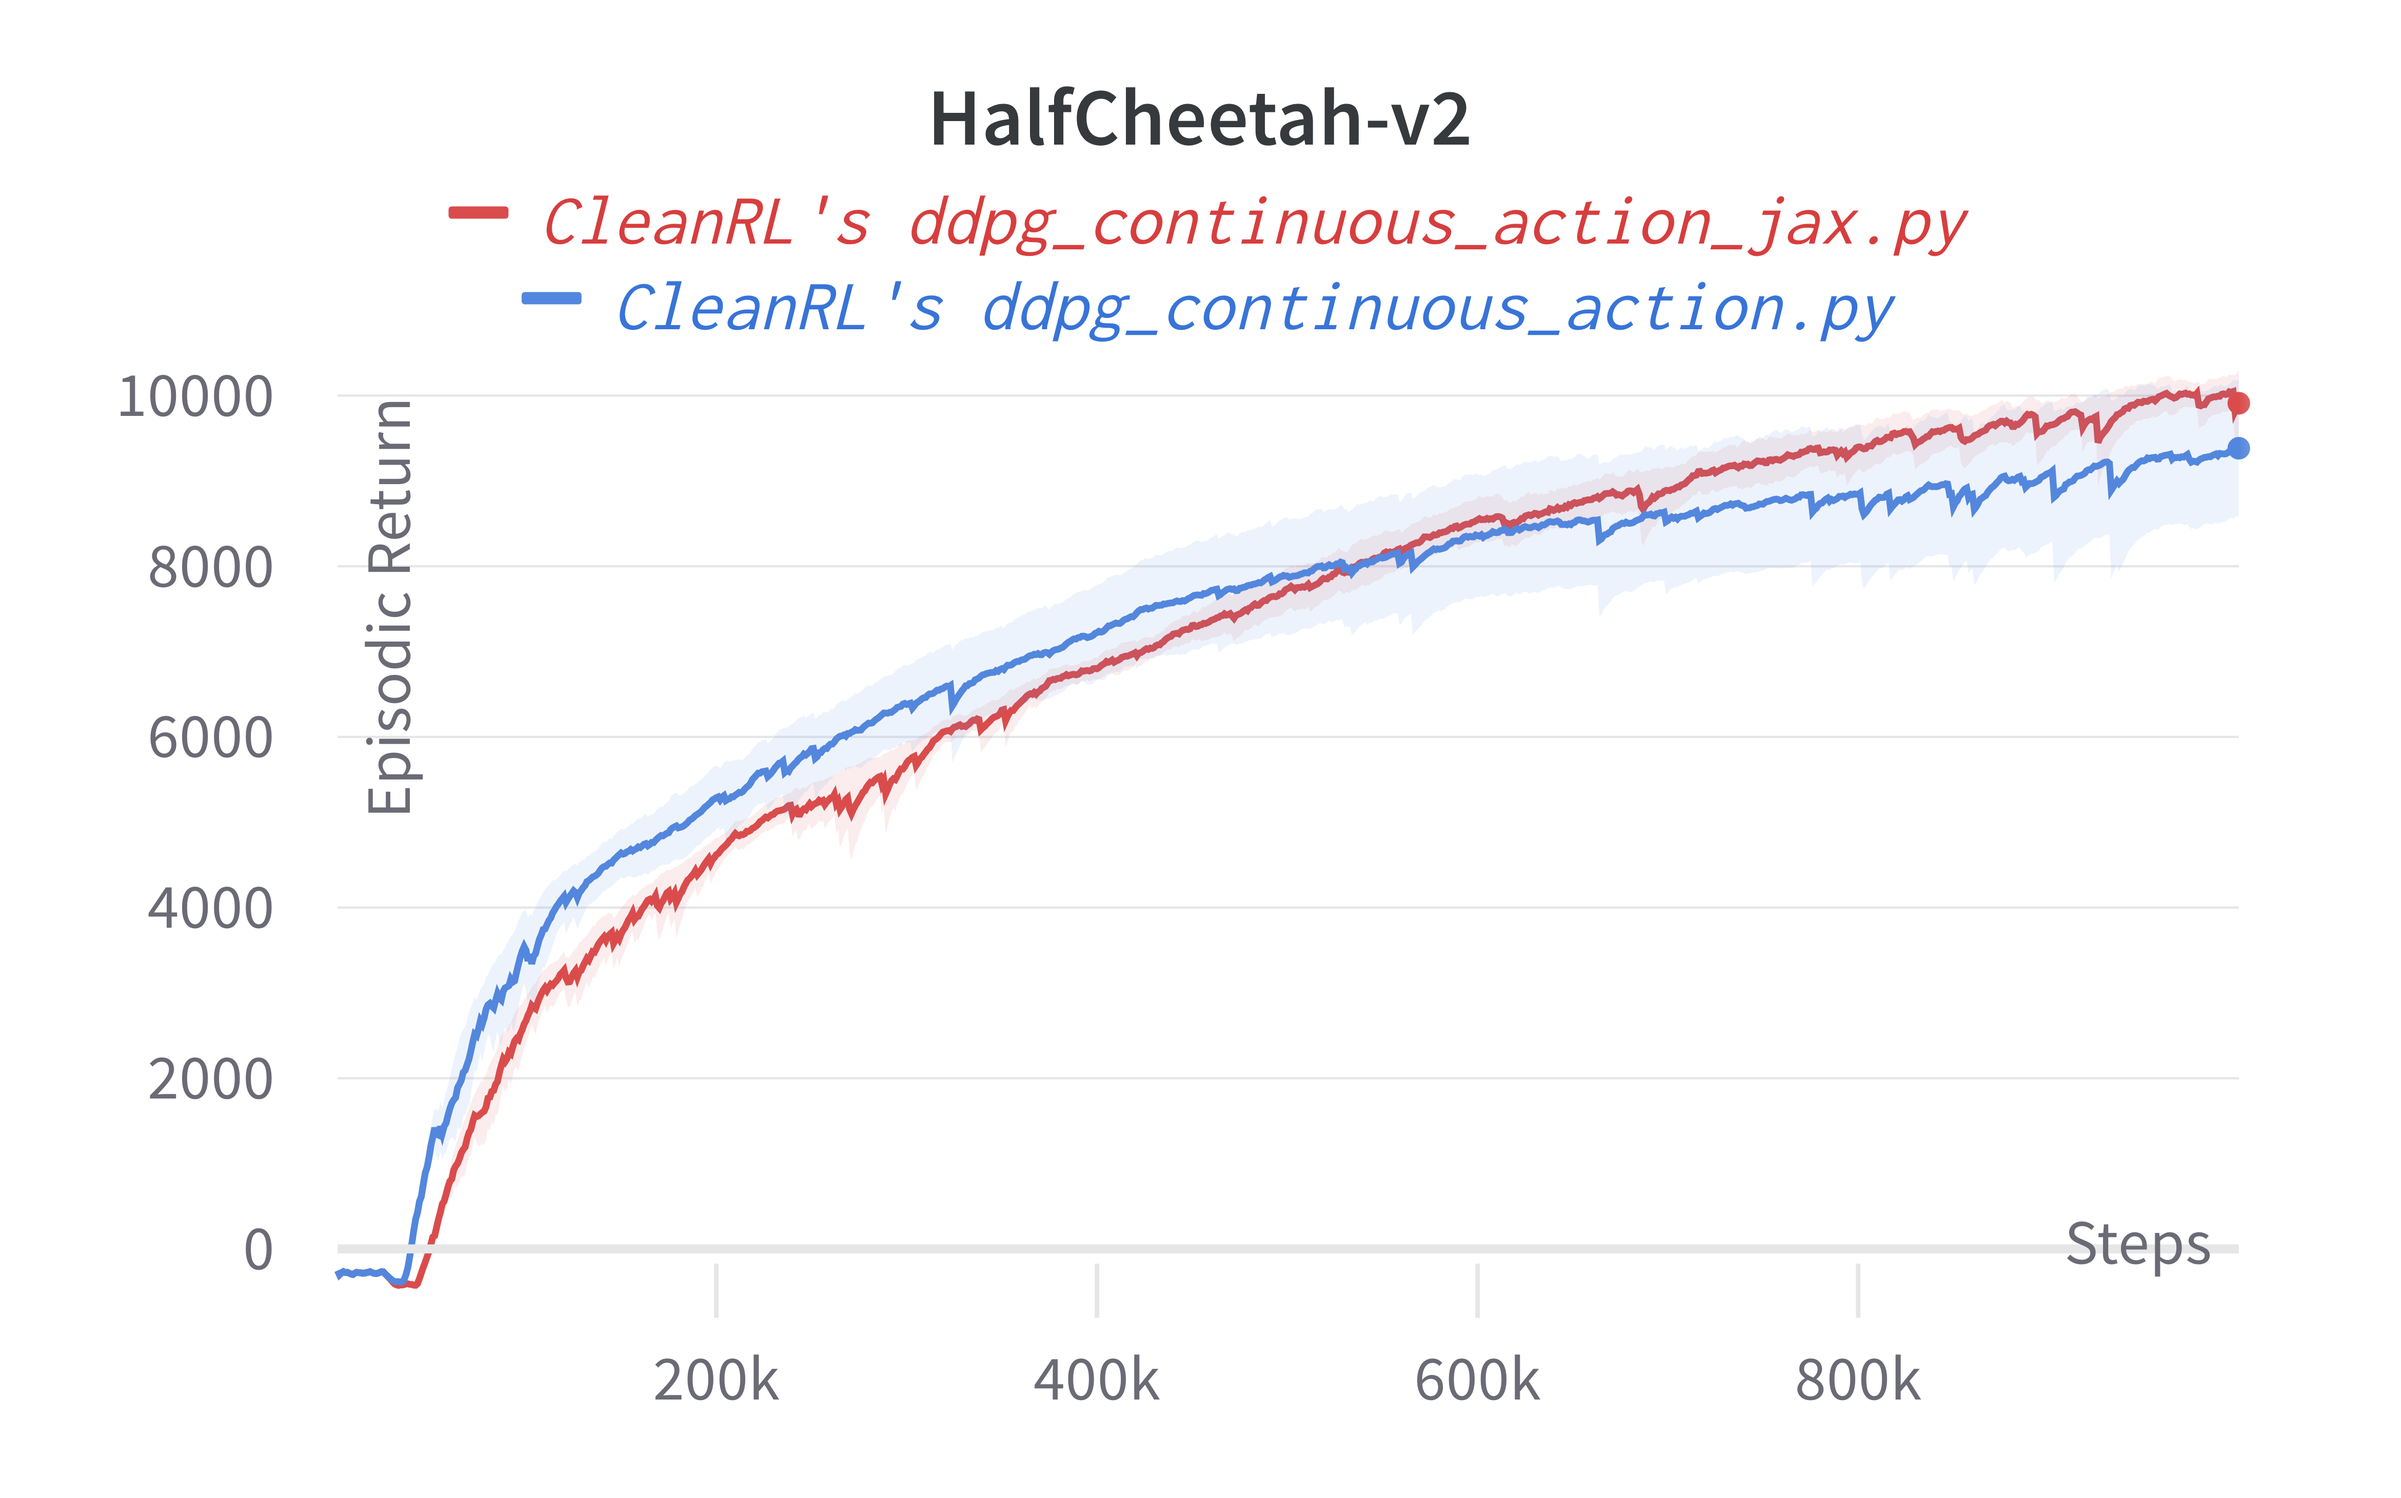
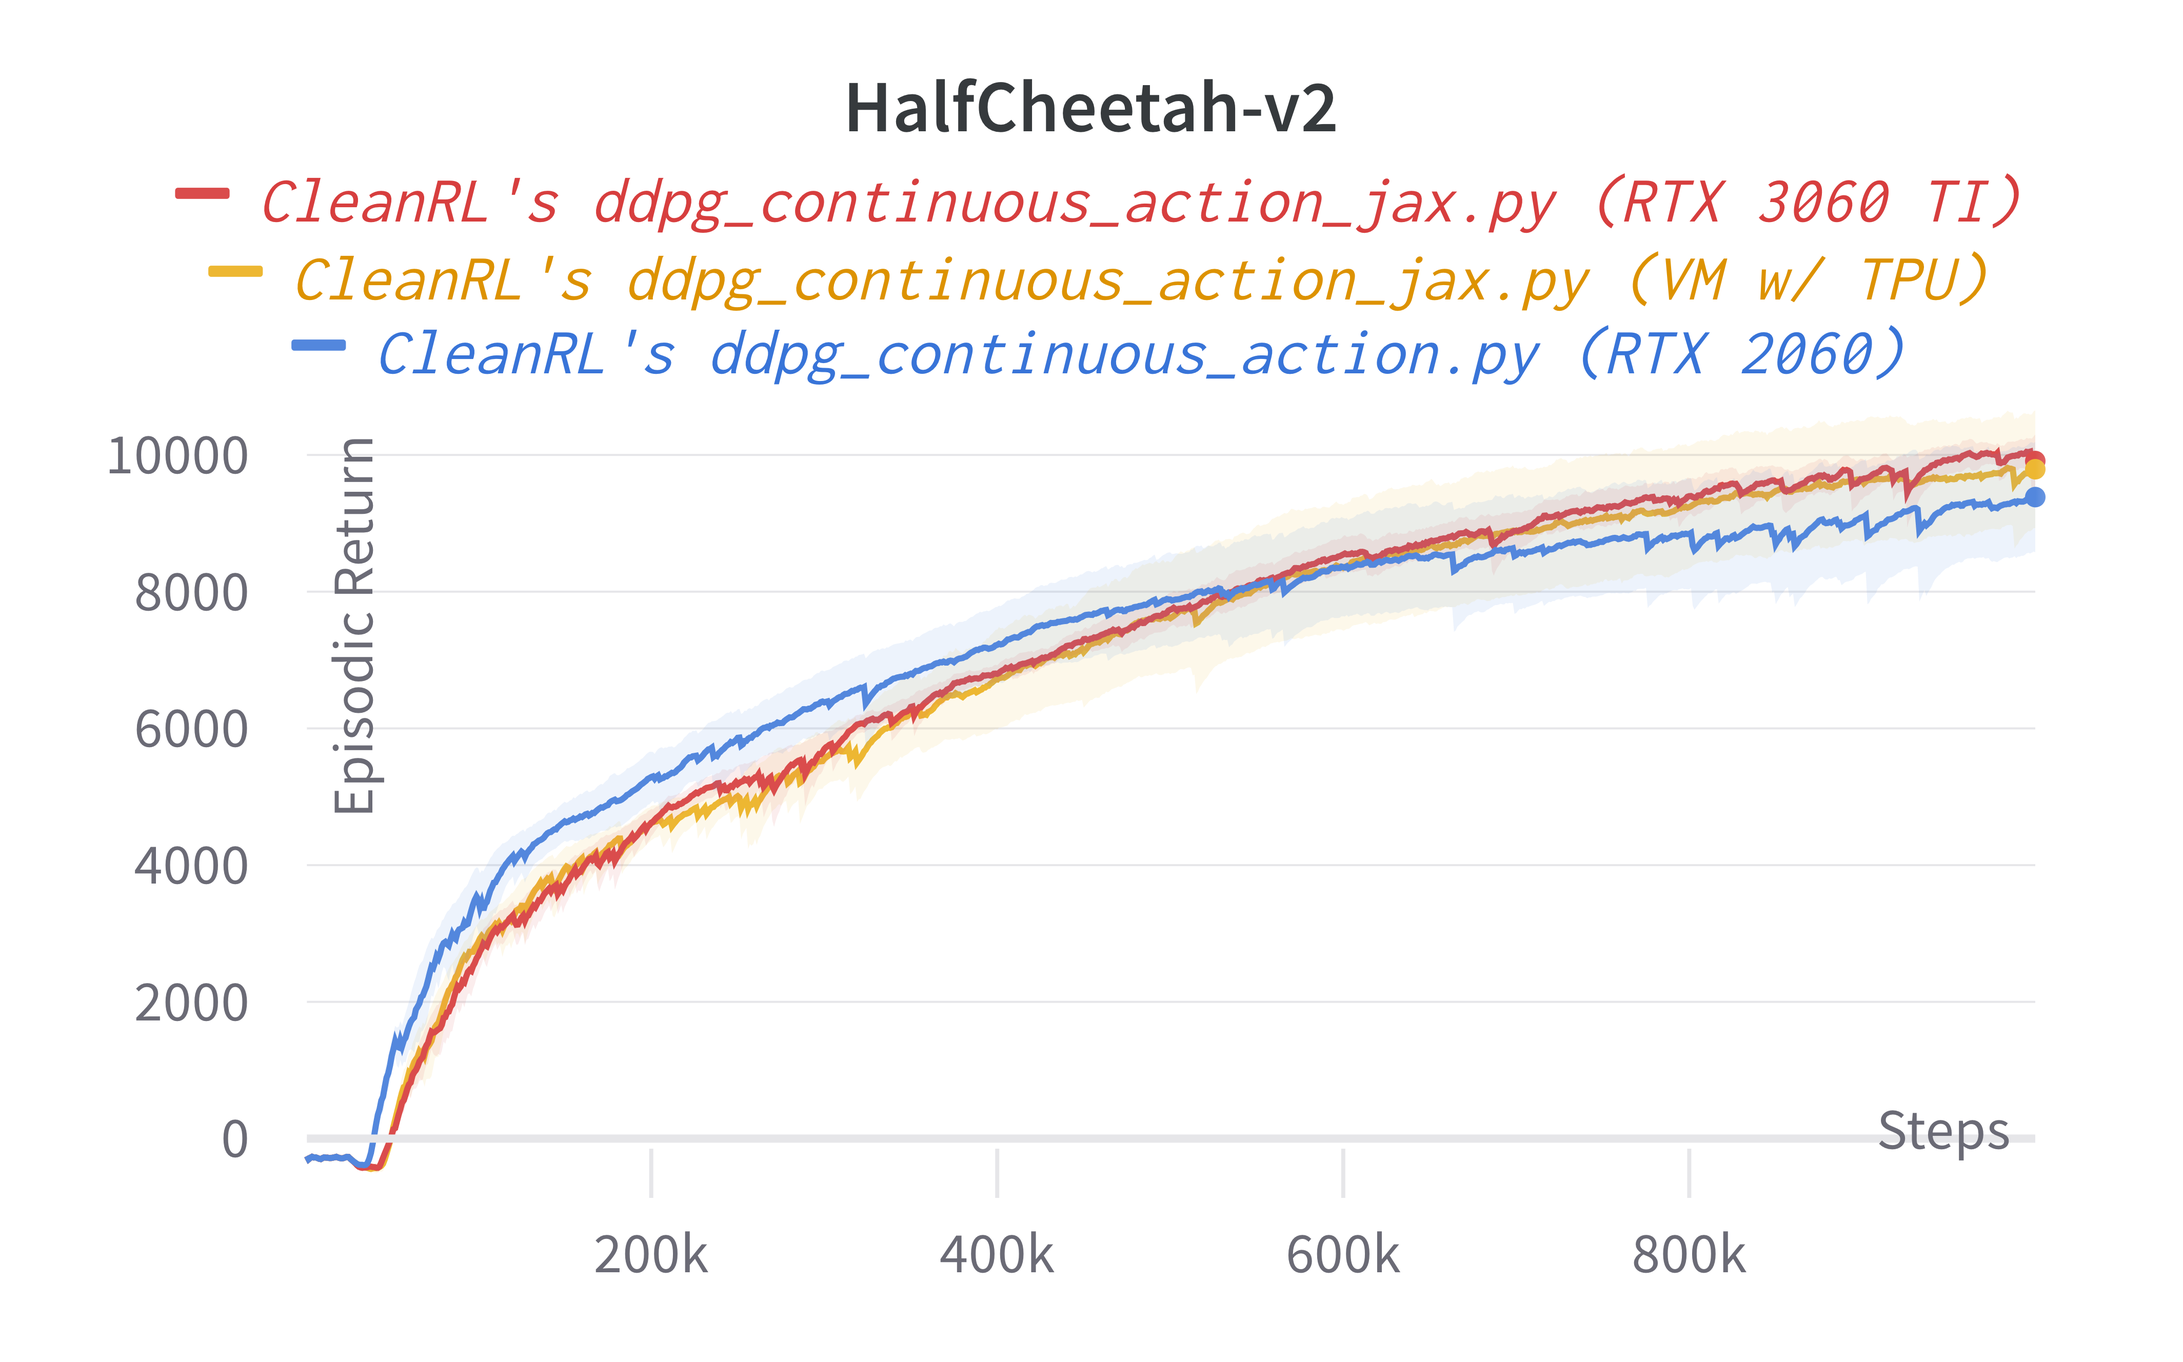
update docs

diff --git a/docs/rl-algorithms/ddpg.md b/docs/rl-algorithms/ddpg.md
@@ -278,16 +278,18 @@ To run benchmark experiments, see :material-github: [benchmark/ddpg.sh](https://
 
 Below are the average episodic returns for [`ddpg_continuous_action_jax.py`](https://github.com/vwxyzjn/cleanrl/blob/master/cleanrl/ddpg_continuous_action_jax.py) (3 random seeds). To ensure the quality of the implementation, we compared the results against (Fujimoto et al., 2018)[^2].
 
-| Environment      | [`ddpg_continuous_action_jax.py`](https://github.com/vwxyzjn/cleanrl/blob/master/cleanrl/ddpg_continuous_action_jax.py) | [`ddpg_continuous_action.py`](https://github.com/vwxyzjn/cleanrl/blob/master/cleanrl/ddpg_continuous_action.py)  | [`OurDDPG.py`](https://github.com/sfujim/TD3/blob/master/OurDDPG.py) (Fujimoto et al., 2018, Table 1)[^2]    |
-| ----------- | ----------- | ----------- | ----------- |
-| HalfCheetah |  9910.53 ± 673.49     | 9382.32 ± 1395.52      |8577.29  |
-| Walker2d |  1397.60 ± 677.12  | 1598.35 ± 862     |  3098.11 | 
-| Hopper |  1603.5 ± 727.281  | 1313.43 ± 684.46         |  1860.02 | 
+| Environment      | [`ddpg_continuous_action_jax.py`](https://github.com/vwxyzjn/cleanrl/blob/master/cleanrl/ddpg_continuous_action_jax.py) (RTX 3060 TI) | [`ddpg_continuous_action_jax.py`](https://github.com/vwxyzjn/cleanrl/blob/master/cleanrl/ddpg_continuous_action_jax.py) (VM w/ TPU) | [`ddpg_continuous_action.py`](https://github.com/vwxyzjn/cleanrl/blob/master/cleanrl/ddpg_continuous_action.py) (RTX 2060) | [`OurDDPG.py`](https://github.com/sfujim/TD3/blob/master/OurDDPG.py) (Fujimoto et al., 2018, Table 1)[^2]    |
+| ----------- | ----------- | ----------- | ----------- | ----------- |
+| HalfCheetah |  9910.53 ± 673.49 | 9790.72 ± 1494.85   | 9382.32 ± 1395.52      |8577.29  |
+| Walker2d |  1397.60 ± 677.12  | 1314.83 ± 689.71 | 1598.35 ± 862     |  3098.11 | 
+| Hopper |  1603.5 ± 727.281  | 1602.20 ± 696.11 | 1313.43 ± 684.46         |  1860.02 | 
 
 
 ???+ info
 
-    Note that we ran the [`ddpg_continuous_action_jax.py`](https://github.com/vwxyzjn/cleanrl/blob/master/cleanrl/ddpg_continuous_action_jax.py) experiments with RTX 3060 Ti (~810 SPS) and [`ddpg_continuous_action.py`](https://github.com/vwxyzjn/cleanrl/blob/master/cleanrl/ddpg_continuous_action.py) experiments with RTX 2060 (~241 SPS). Using RTX 3060 Ti w/ [`ddpg_continuous_action.py`](https://github.com/vwxyzjn/cleanrl/blob/master/cleanrl/ddpg_continuous_action.py) brings the SPS from 241 to 325, according to [this report](https://wandb.ai/costa-huang/cleanRL/reports/Torch-DDPG-2060-vs-3060ti---VmlldzoyMzA1NDYy) meaning that under the same hardware, [`ddpg_continuous_action_jax.py`](https://github.com/vwxyzjn/cleanrl/blob/master/cleanrl/ddpg_continuous_action_jax.py) would be **roughly 810/241=2.5x faster**.  However, because of the overhead of `--capture-video` that both scripts suffer, we suspect [`ddpg_continuous_action_jax.py`](https://github.com/vwxyzjn/cleanrl/blob/master/cleanrl/ddpg_continuous_action_jax.py) would be 3x-4x faster when `--capture-video` is disabled.
+    Note that the experiments were conducted on different hardwares, so your mileage might vary. This inconsistency is because 1) re-running expeirments on the same hardware is computationally expensive and 2) requiring the same hardware is not inclusive nor feasible to other contributors who might have different hardwares.
+
+    That said, we roughly expect to see a 2-4x speed improvement from using [`ddpg_continuous_action_jax.py`](https://github.com/vwxyzjn/cleanrl/blob/master/cleanrl/ddpg_continuous_action_jax.py) under the same hardware. And if you disable the `--capture-video` overhead, the speed improvement will be even higher.
 
 
 Learning curves:
